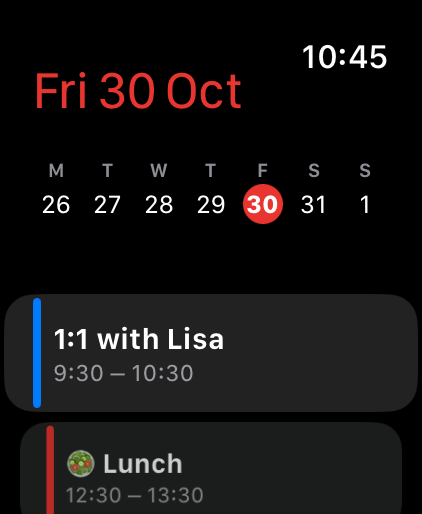
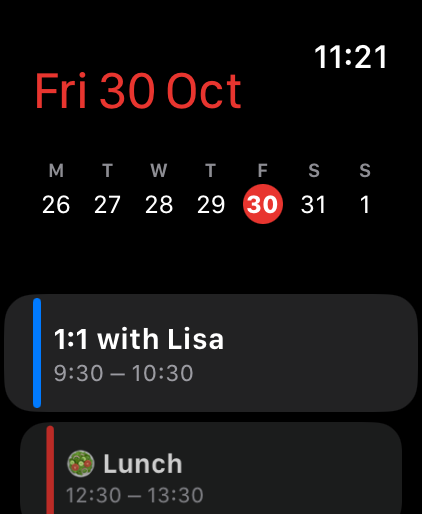
Website: new app screenshots (real photos, day view at working hours) and day/subscriptions/sports in the gallery; App Store composer: Mac month, sharper Mac shots
Claude-Session: https://claude.ai/code/session_01GmutVXVKAaLUWx26WWKFAB

Changed region(s): [[0.7085, 0.0623, 0.9242, 0.1556]]

diff --git a/website/index.html b/website/index.html
@@ -35,8 +35,8 @@
 <link rel="icon" type="image/png" href="/assets/favicon.png">
 <link rel="apple-touch-icon" href="/assets/apple-touch-icon.png">
 <link rel="stylesheet" href="/assets/devices.min.css">
-<meta name="weekdot-shots" content="{&quot;en&quot;:{&quot;ipad-week&quot;:&quot;6c89e3c1b5&quot;,&quot;iphone-month&quot;:&quot;8f999e65aa&quot;,&quot;iphone-week&quot;:&quot;b019d5c7e0&quot;,&quot;mac-week&quot;:&quot;8867a8f1f0&quot;,&quot;watch-day&quot;:&quot;d6f59cbafc&quot;},&quot;nl&quot;:{&quot;ipad-week&quot;:&quot;da4f1e963b&quot;,&quot;iphone-month&quot;:&quot;31af0aa51f&quot;,&quot;iphone-week&quot;:&quot;24378139a3&quot;,&quot;watch-day&quot;:&quot;479a8074b0&quot;}}">
-<meta name="weekdot-gallery" content="{&quot;en&quot;:{&quot;event&quot;:&quot;13dd57a742&quot;,&quot;list&quot;:&quot;a3a436687f&quot;,&quot;month&quot;:&quot;ea7ccd8cd2&quot;,&quot;week&quot;:&quot;2ab0f383c9&quot;},&quot;nl&quot;:{&quot;event&quot;:&quot;8efed0ae97&quot;,&quot;list&quot;:&quot;01889c1599&quot;,&quot;month&quot;:&quot;6d5e3be108&quot;,&quot;week&quot;:&quot;f8d580477a&quot;}}">
+<meta name="weekdot-shots" content="{&quot;en&quot;:{&quot;ipad-week&quot;:&quot;a315483186&quot;,&quot;iphone-month&quot;:&quot;8f999e65aa&quot;,&quot;iphone-week&quot;:&quot;3efdab7b15&quot;,&quot;mac-week&quot;:&quot;8867a8f1f0&quot;,&quot;watch-day&quot;:&quot;112b18ec8c&quot;},&quot;nl&quot;:{&quot;ipad-week&quot;:&quot;616036362c&quot;,&quot;iphone-month&quot;:&quot;31af0aa51f&quot;,&quot;iphone-week&quot;:&quot;24378139a3&quot;,&quot;mac-week&quot;:&quot;31004050de&quot;,&quot;watch-day&quot;:&quot;2f1dceef47&quot;}}">
+<meta name="weekdot-gallery" content="{&quot;en&quot;:{&quot;day&quot;:&quot;2b2b9c9889&quot;,&quot;discover&quot;:&quot;74e6ea4679&quot;,&quot;event&quot;:&quot;f2bb91db7e&quot;,&quot;list&quot;:&quot;a3a436687f&quot;,&quot;month&quot;:&quot;ea7ccd8cd2&quot;,&quot;sports&quot;:&quot;79161c18d5&quot;,&quot;week&quot;:&quot;1d5d9d2fca&quot;},&quot;nl&quot;:{&quot;day&quot;:&quot;3e5df69fae&quot;,&quot;discover&quot;:&quot;36737f5a15&quot;,&quot;event&quot;:&quot;8c36791a72&quot;,&quot;list&quot;:&quot;01889c1599&quot;,&quot;month&quot;:&quot;6d5e3be108&quot;,&quot;sports&quot;:&quot;8482d08561&quot;,&quot;week&quot;:&quot;f8d580477a&quot;}}">
 <script>document.documentElement.setAttribute("data-i18n-wait","");setTimeout(function(){document.documentElement.removeAttribute("data-i18n-wait")},1500)</script>
 <style>html[data-i18n-wait] body{visibility:hidden}</style>
 <link rel="stylesheet" href="/styles.css?v=651411f6be">

diff --git a/appstore/tools/compose.js b/appstore/tools/compose.js
@@ -23,6 +23,8 @@ function html(dev, img, imgW, imgH, caption, sub, dark){
   let ih = availH * (dev==='mac'?1:1.0), iw = ih * imgW / imgH;
   const maxW = d.w * (dev==='mac'? 0.86 : d.scale);
   if (iw > maxW) { iw = maxW; ih = iw * imgH / imgW; }
+  // the CI Mac has a small screen: don't blow its window up more than ~1.8x (stays sharp)
+  if (dev==='mac' && iw > imgW*1.8) { iw = imgW*1.8; ih = iw * imgH / imgW; }
   const bg = dark ? 'radial-gradient(1200px 900px at 80% 10%, #3a1212 0%, #121214 60%)' : 'radial-gradient(1400px 1000px at 85% 0%, #ffe3df 0%, #fff7f5 45%, #f4f1ee 100%)';
   const ink = dark ? '#fff' : '#141418';
   const frame = dev==='mac'
@@ -46,7 +48,7 @@ function html(dev, img, imgW, imgH, caption, sub, dark){
     const lang = LANG_FOR[loc]; if (!lang) continue;           // other locales fall back to the primary language's screenshots
     for (const dev of ['iphone','ipad','ipad11','mac']) {
       const dir = path.join(SHOTS, lang, DEV[dev].src || dev); if (!fs.existsSync(dir)) continue;
-      const scenes = dev==='mac' ? ['week','month-screen'] : ORDER;
+      const scenes = dev==='mac' ? ['week','month','month-screen'] : ORDER;
       let n = 0;
       for (const sc of scenes) {
         const f = path.join(dir, sc+'.png'); if (!fs.existsSync(f)) continue;
